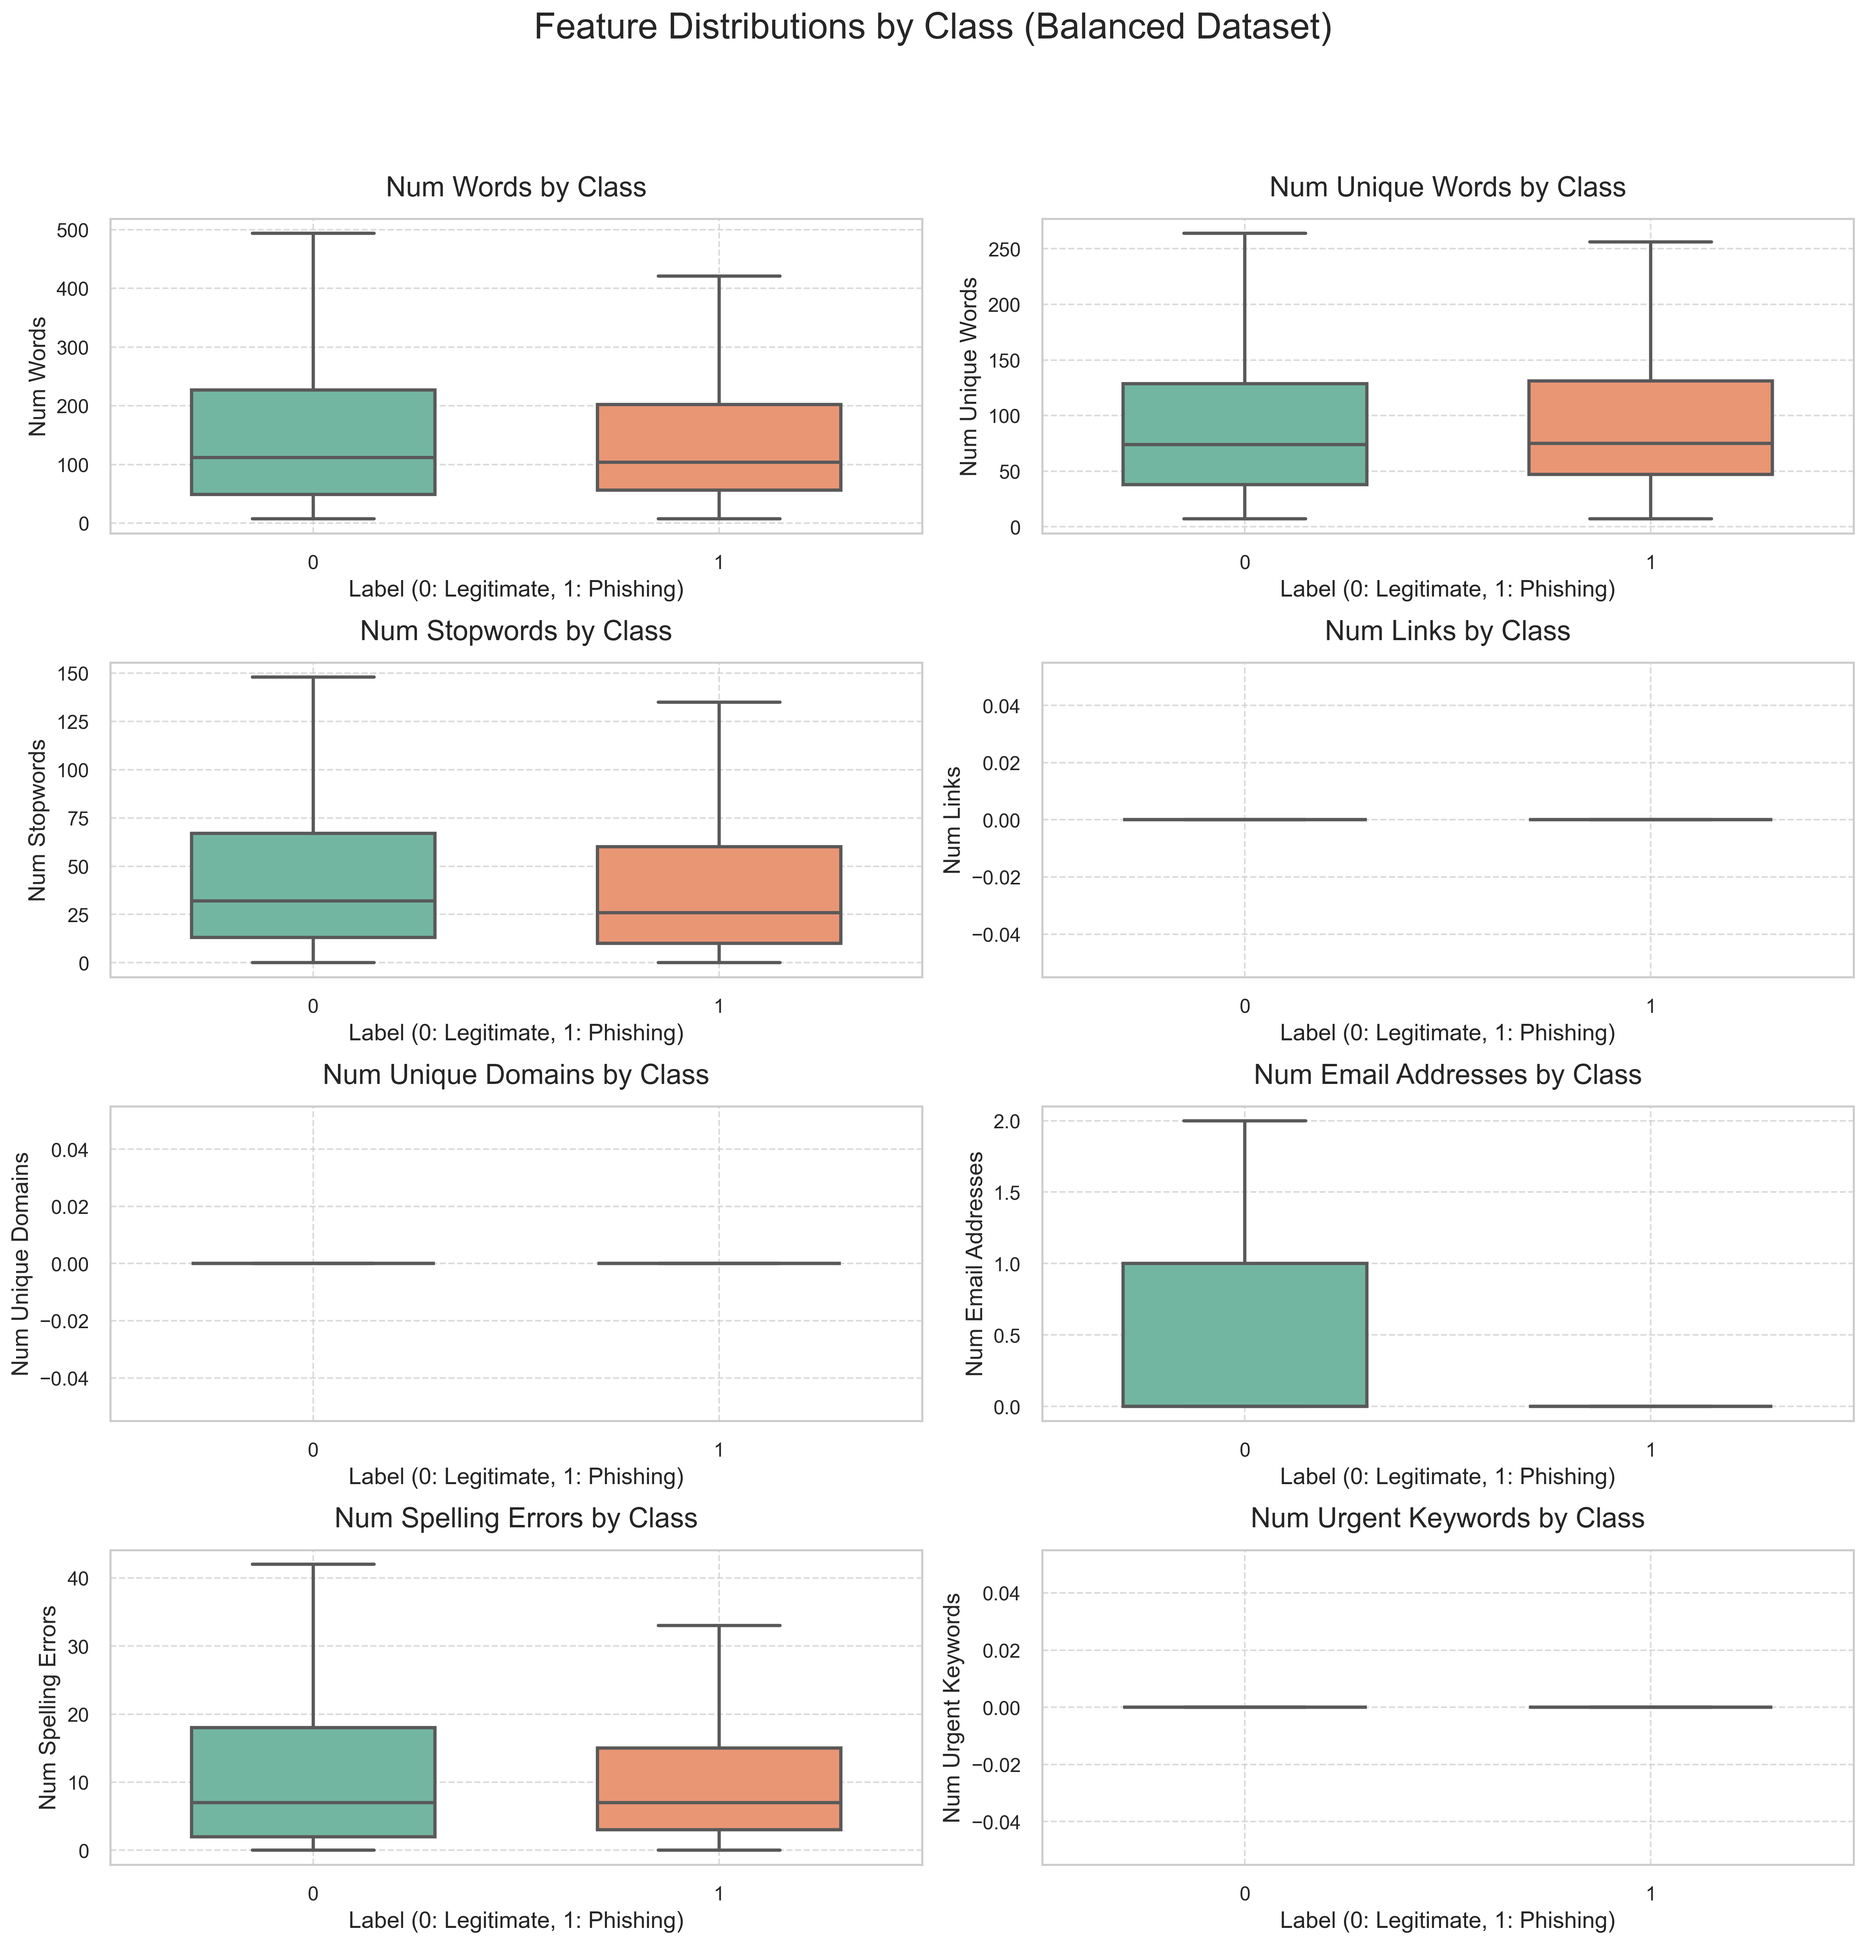
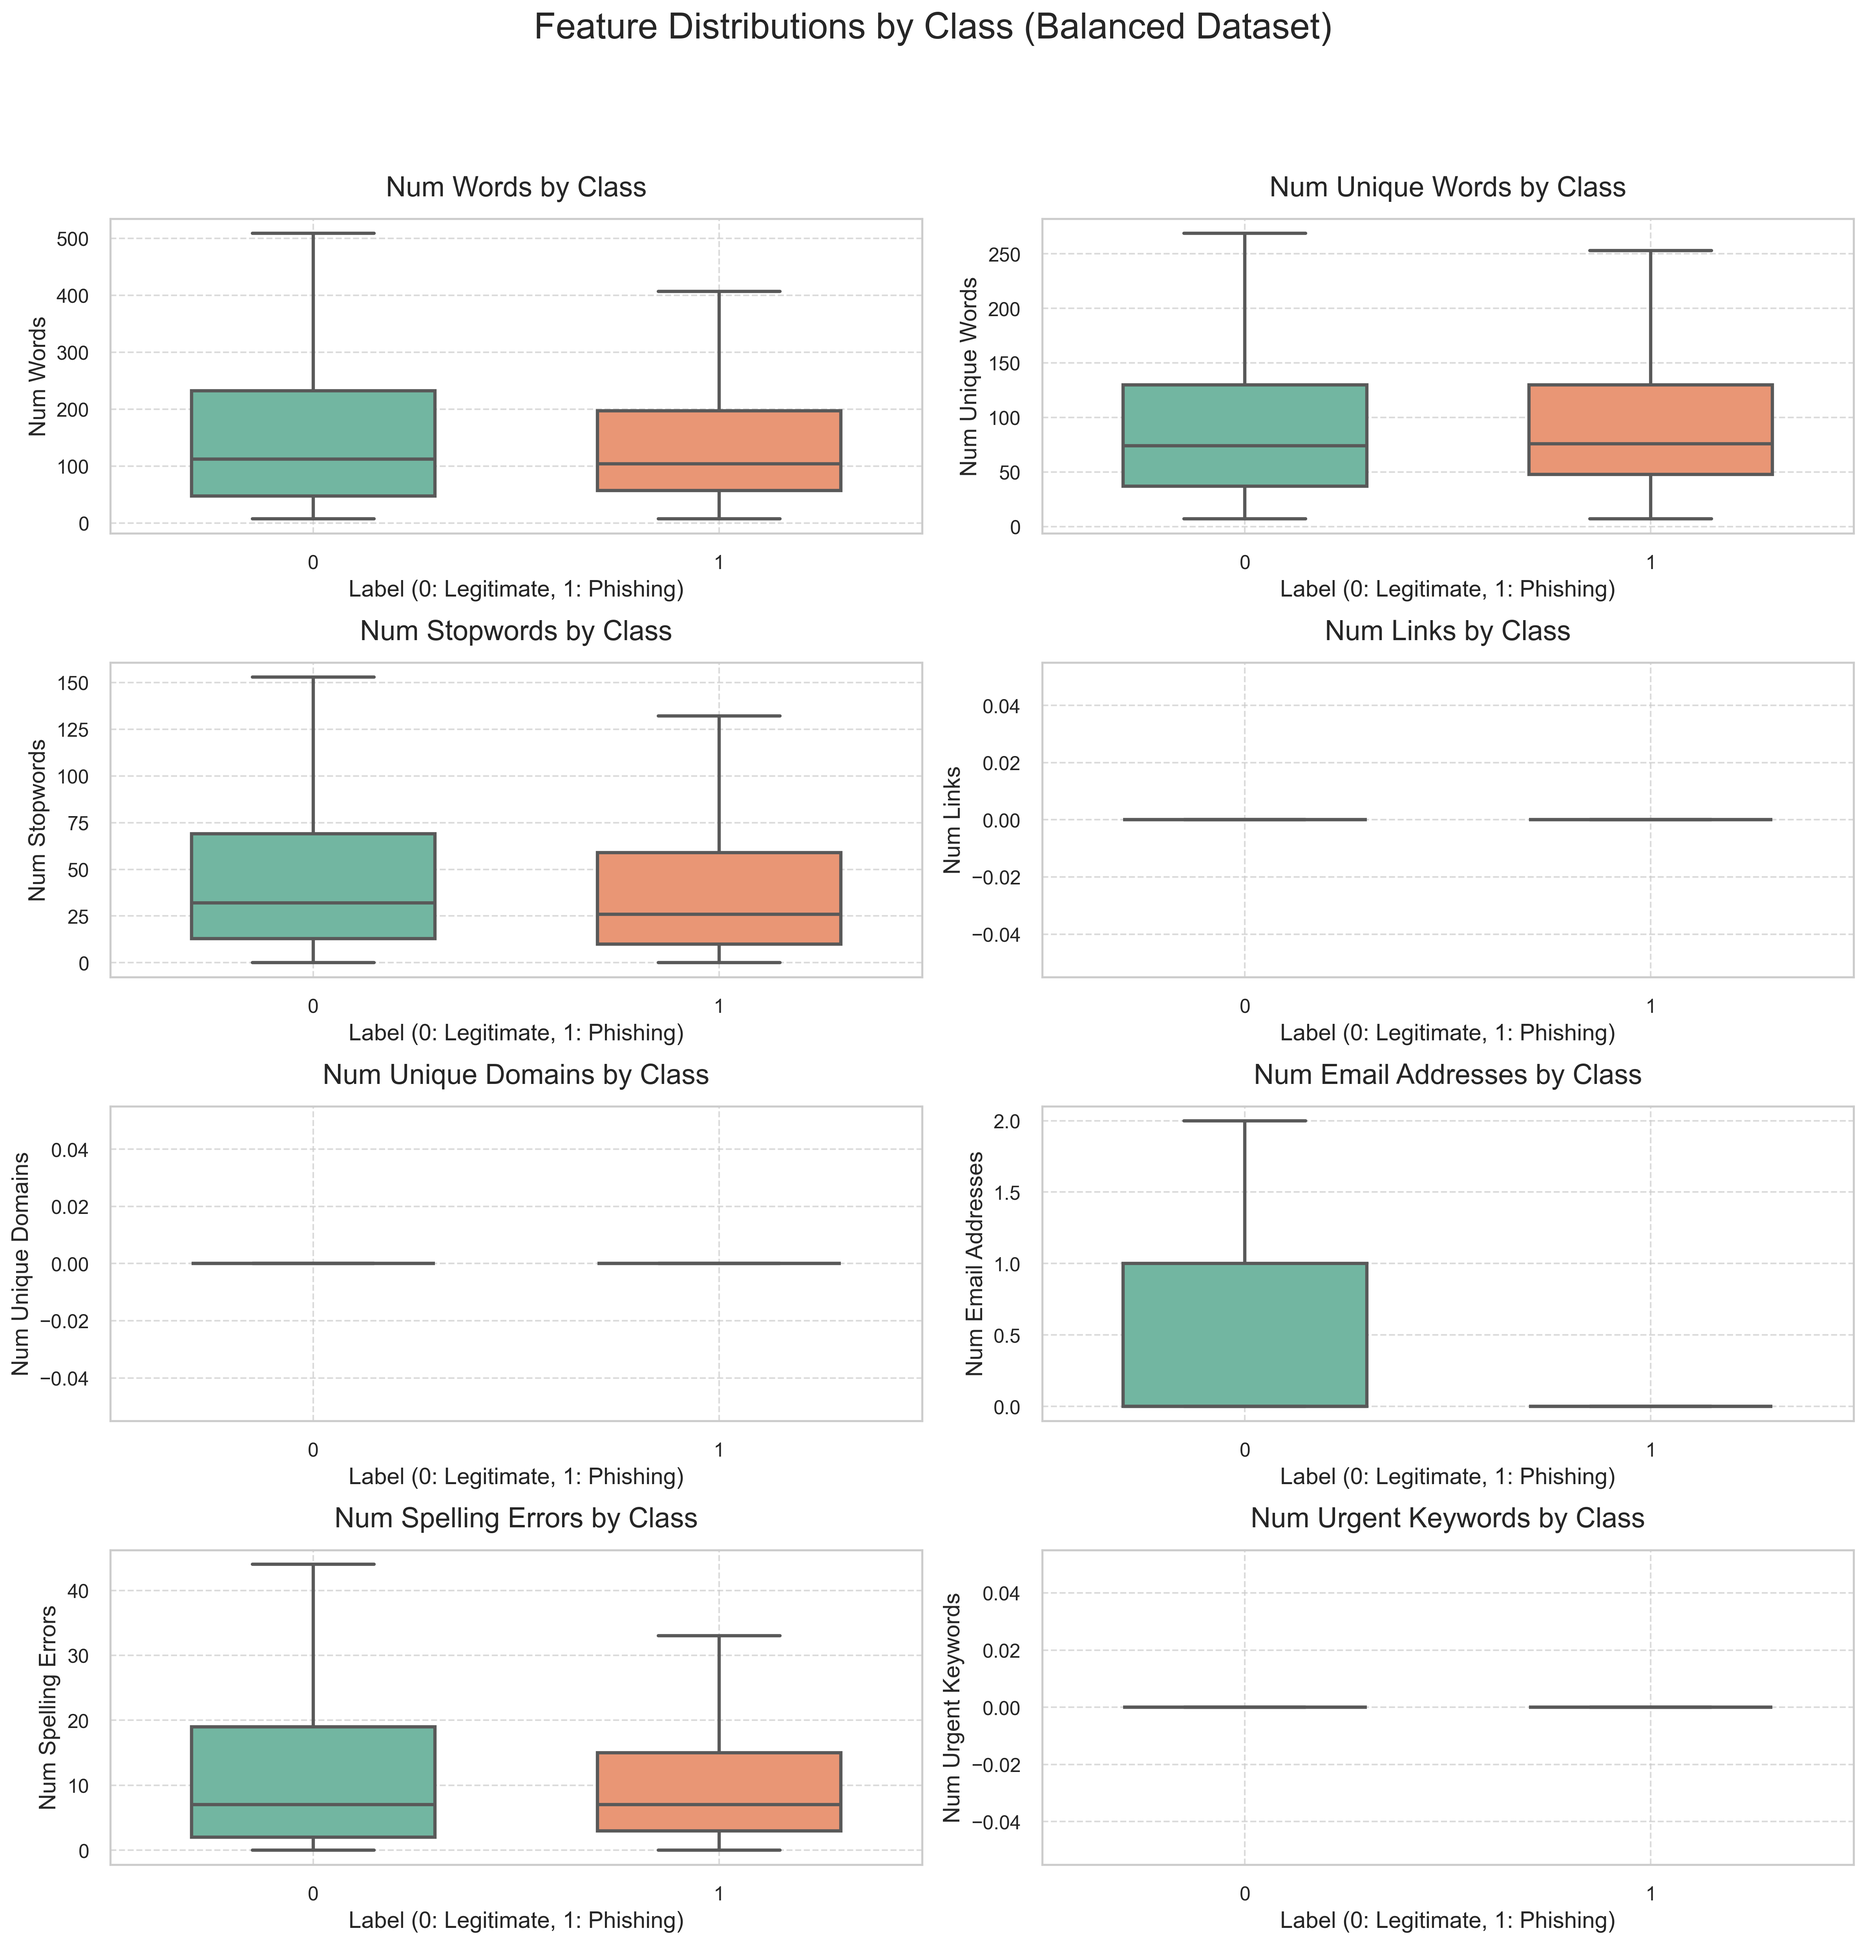
Updated preprocessing data

diff --git a/preprocess_data.py b/preprocess_data.py
@@ -13,9 +13,15 @@ print(df['label'].value_counts())
 legitimate = df[df['label'] == 0]
 phishing = df[df['label'] == 1]
 
-# Randomly sample 2000 from each class
-legitimate_sampled = legitimate.sample(n=2000, random_state=42)
-phishing_sampled = phishing.sample(n=2000, random_state=42)
+print("Legitimate count:", len(legitimate))
+print("Phishing count:", len(phishing))
+
+# Determine the maximum possible balanced sample size
+max_sample = min(len(legitimate), len(phishing), 10000)
+print(f"Sampling {max_sample} from each class.")
+
+legitimate_sampled = legitimate.sample(n=max_sample, random_state=42)
+phishing_sampled = phishing.sample(n=max_sample, random_state=42)
 
 # Combine the sampled data
 balanced_df = pd.concat([legitimate_sampled, phishing_sampled])
